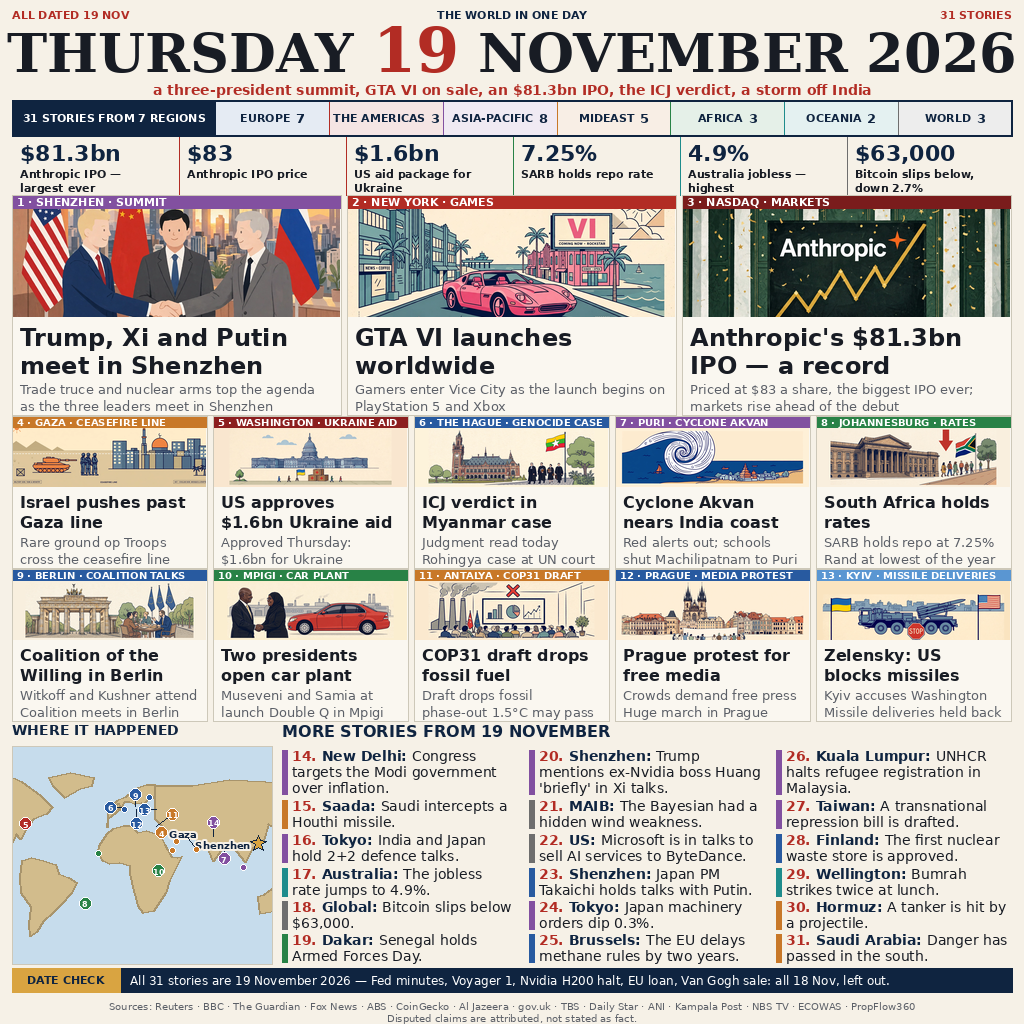
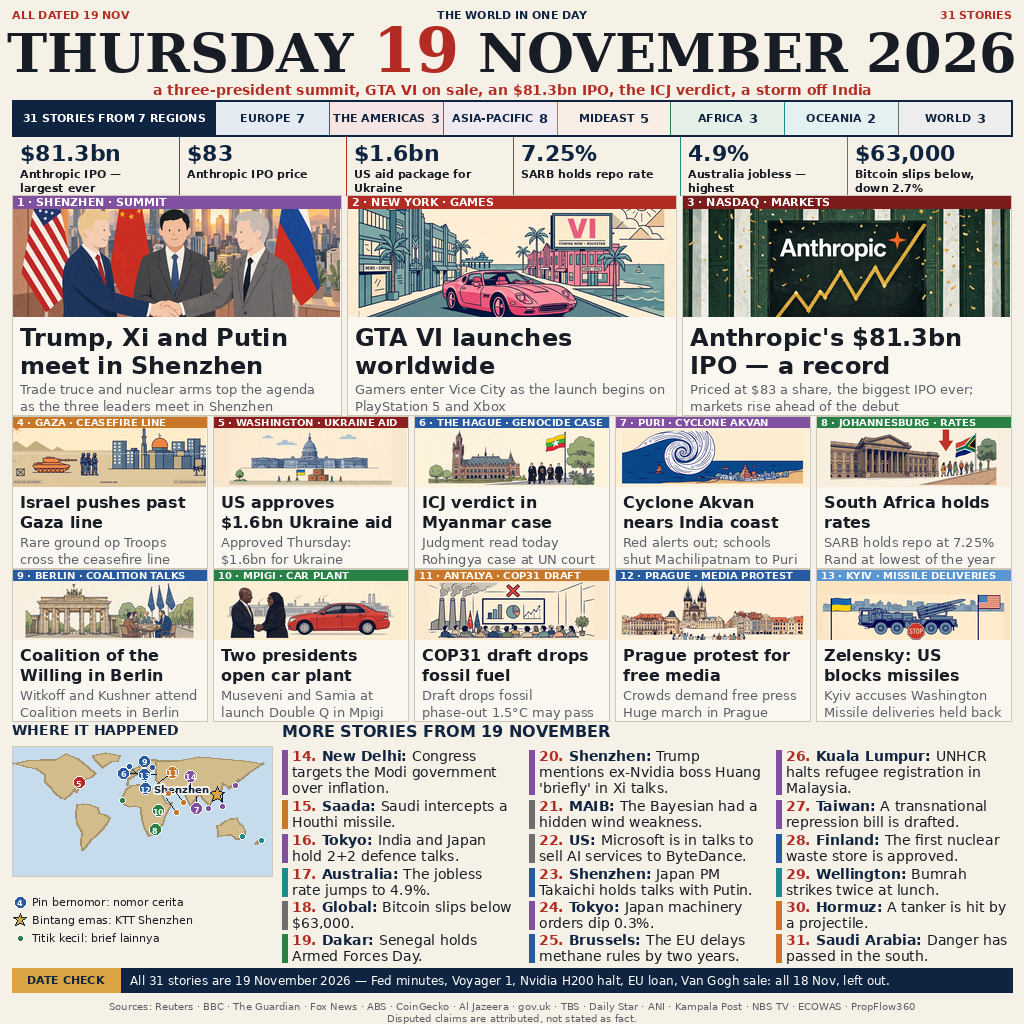
v7 fix: map natural-aspect strip + legend, Johannesburg lon fix
Map no longer has to fill the whole box height (Kevin 06:41 WIB):
full world width, true 2:1 ratio (260x130 strip), box follows the
map, compact 3-line legend fills the leftover space. All 11 dots
back (Tokyo/Australia/Wellington lost in v6 crop); 0 skipped.
Gaza label dropped (collides with Shenzhen label + Saada dot on
every side at this scale); Shenzhen label nudged 7px up to clear
New Delhi pin and Saudi dot. Data fix: Johannesburg lon was -28.0
(wrong hemisphere, pin in the Atlantic) -> +28.0E; pin now on land
in South Africa.

Changed region(s): [[0.0, 0.7188, 0.2812, 0.9688]]

diff --git a/compose_v2.py b/compose_v2.py
@@ -114,6 +114,17 @@
 #    subjects stay whole with margins; no new in-picture text.
 #  - Titles, texts, numbers, layout, house style unchanged.
 #
+# v7 changes (20 Nov ~06:41 WIB, Kevin: "Maksudku ga perlu di full
+# vertical"): the map does NOT have to fill the whole box height.
+# It is now a NATURAL-ASPECT STRIP: full world width (no left/right
+# crop — Americas, Europe, Africa, Asia, Australia all in), no
+# stretch, no ocean gap inside the map; height follows the true
+# ratio (260 px wide -> 130 px tall). The map box follows the map
+# height; the space left in the left column holds a compact 3-line
+# legend (numbered pin / gold star / small dot), centred. Pin/dot
+# offsets retuned for the smaller scale so all 11 dots return
+# (Tokyo, Australia, Wellington were lost in the v6 cover-fit crop).
+#
 # Run:  python3 compose_v2.py   (needs Pillow; writes entry.png here)
 # The entrypoint main.py only copies entry.png — it never re-renders.
 
@@ -360,7 +371,9 @@ PLACES = {
     "Kuala Lumpur": (101.7, 3.1),
     "Beijing": (116.4, 39.9),
     "Brussels": (4.4, 50.8),
-    "Johannesburg": (-28.0, -26.2),
+    "Johannesburg": (28.0, -26.2),  # v7 fix: was (-28.0, -26.2) — wrong
+    # hemisphere; the pin sat in the South Atlantic instead of South
+    # Africa. Johannesburg is 28.0E, 26.2S.
     "Mpigi": (32.3, 0.2),
     "Antalya": (30.7, 36.9),
     "Dakar": (-17.4, 14.7),
@@ -385,13 +398,28 @@ PIN_OFFSETS = {
     "Puri": (0, 12),
     "New Delhi": (0, -14),
 }
-# Dot offsets (same leader-line mechanism as pins). v5: the Hormuz
-# dot sat on top of the "Gaza" label, so it moves down-right.
+# Dot offsets (same leader-line mechanism as pins). v7 (natural-aspect
+# strip, smaller scale): Saada moved right so it clears the Mpigi pin,
+# Taiwan moved down so it clears the Tokyo dot, Brussels moved up-left
+# so it clears the Kyiv pin. v5: the Hormuz dot sat on top of the
+# "Gaza" label, so it moves down-right.
 DOT_OFFSETS = {
     "Hormuz": (8, 11),
+    "Saada": (10, 14),
+    "Taiwan": (0, 14),
+    "Brussels": (-8, -8),
 }
 # Which pins get a name label, and on which side (l/r/a/b).
-PIN_LABELS = {"Gaza": "r", "Wellington": "l", "Tokyo": "a", "Shenzhen": "l"}  # v6: star near right edge, label below would run off-box
+# v7: "Gaza" dropped — at this scale its label collides with the
+# Shenzhen label AND the Saada dot/leader no matter the side
+# (checked all four); pin 4 is still identified by card 4's strip
+# and the legend. "Wellington"/"Tokyo" are dots, so their entries
+# here are inert.
+PIN_LABELS = {"Wellington": "l", "Tokyo": "a", "Shenzhen": "l"}  # v6: star near right edge, label below would run off-box
+# Extra vertical nudge (px) for a label, on top of its side offset.
+# v7: Shenzhen -7 so the text clears the New Delhi pin above and the
+# Saudi Arabia dot below (both sub-1px clearances, verified visually).
+PIN_LABEL_DY = {"Shenzhen": -7}
 
 # Strip colour choices per region (first pick is the region colour;
 # the rest are nearby shades so neighbours can always differ).
@@ -512,28 +540,24 @@ def assign_strips(grid):
     return colours
 
 # ---- map ----
-# Map cover-fit (v6, Kevin 20 Nov 06:31 WIB: "lebih baik di crop aja,
-# jangan di buat laut gitu"). One undistorted scale, big enough that the
-# world (lon -180..180, lat 90..-90) covers the whole 260x218 box, so
-# the overflowing edges are CROPPED, not left as ocean gaps. The scale
-# is set by the pins: Washington (-77) .. Shenzhen (114.1) must all stay
-# visible, so s = 1.22 (visible lon -86..123); centre lon 18.55, centre
-# lat 13.15 (pins Berlin 52.5 .. Johannesburg -26.2). The thin sea bands
-# top/bottom are the Arctic + Southern Ocean of the map itself, not an
-# empty margin: land spans ~76% of the box height. A strict cover-fit
-# (s = 218/130 = 1.68) would show only 155 deg of longitude and cut the
-# Washington / Shenzhen pins, so the zoom is eased just enough to keep
-# every pin (task instruction: "sesuaikan zoom ... supaya semua pin
-# tetap terlihat").
-MAP_S = 1.22
-MAP_CLON = 18.55
-MAP_CLAT = 13.15
+# Map NATURAL-ASPECT STRIP (v7, Kevin 20 Nov 06:41 WIB: "Maksudku ga
+# perlu di full vertikal"). The map does NOT have to fill the whole
+# box height: full world width (lon -180..180, no left/right crop),
+# one undistorted scale, height follows the true ratio — 260 px wide
+# -> 130 px tall (2:1). Centre lon 10 so Wellington (174.8) still
+# fits inside the right edge with its pin; centre lat 0. The map box
+# follows the map height (see build()); the leftover space in the
+# left column holds a compact legend, not ocean.
+MAP_S = 260 / 360.0
+MAP_CLON = 10.0
+MAP_CLAT = 0.0
+MAP_H = 130
 
 
 def project(lon, lat, mw, mh):
-    """Equirectangular, UNDISTORTED, COVER-FIT (v6). One scale for both
-    axes; the world is centred on (MAP_CLON, MAP_CLAT) and cropped to
-    the box. lon -180..180 across, lat 90..-90 down."""
+    """Equirectangular, UNDISTORTED, NATURAL-ASPECT STRIP (v7). One
+    scale for both axes; the whole world (lon -180..180, lat 90..-90)
+    spans the box width, height follows the true 2:1 ratio."""
     x = mw / 2.0 + (lon - MAP_CLON) * MAP_S
     y = mh / 2.0 + (MAP_CLAT - lat) * MAP_S
     return (x, y)
@@ -577,11 +601,13 @@ def build_markers():
 
 
 def draw_map(mw, mh):
-    """The world map at its TRUE aspect ratio, COVER-FIT (v6: never
-    stretched — Kevin 20 Nov 06:07 WIB; never ocean gaps — Kevin 20 Nov
-    06:31 WIB). One scale for both axes, the world cropped to the box.
-    Pins r 6 with 8pt numbers, dots r 3 kept 9px apart; dots whose
-    centre falls outside the box are skipped (logged, same as collisions).
+    """The world map at its TRUE aspect ratio, NATURAL-ASPECT STRIP
+    (v7: never stretched — Kevin 20 Nov 06:07 WIB; never ocean gaps
+    — Kevin 20 Nov 06:31 WIB; never full-vertical — Kevin 20 Nov
+    06:41 WIB). One scale for both axes; the whole world spans the
+    box width, height follows the true 2:1 ratio. Pins r 6 with 8pt
+    numbers, dots r 3 kept 9px apart; dots whose centre falls outside
+    the box are skipped (logged, same as collisions).
     Returns (image, log)."""
     pins, dots = build_markers()
     im = Image.new("RGB", (mw, mh), SEA)
@@ -612,15 +638,16 @@ def draw_map(mw, mh):
             placed.append((qx, qy, 6))
         if city in PIN_LABELS:
             side = PIN_LABELS[city]
+            dy = PIN_LABEL_DY.get(city, 0)
             tw = d.textlength(city, font=f_label)
             if side == "r":
-                tx, ty = qx + 8, qy - 5
+                tx, ty = qx + 8, qy - 5 + dy
             elif side == "l":
-                tx, ty = qx - 8 - tw, qy - 5
+                tx, ty = qx - 8 - tw, qy - 5 + dy
             elif side == "a":
-                tx, ty = qx - tw / 2, qy - 16
+                tx, ty = qx - tw / 2, qy - 16 + dy
             else:
-                tx, ty = qx - tw / 2, qy + 9
+                tx, ty = qx - tw / 2, qy + 9 + dy
             d.text((tx, ty), city, font=f_label, fill=NAVY,
                    stroke_width=2, stroke_fill=PAPER)
     for i, (x1, y1, _r1) in enumerate(placed):
@@ -649,6 +676,35 @@ def draw_map(mw, mh):
     log = {"pins": [m for _c, m, _r in pins],
            "dots": placed_dots, "skipped_dots": skipped}
     return im, log
+
+
+def draw_map_legend(d, x, y_top, w, y_bottom):
+    """Compact 3-line legend under the map strip (v7), centred in the
+    leftover space of the left column. Explains the three marker
+    kinds; plain on the paper background, no box."""
+    f_txt = load(SANS, 11)
+    f_num = load(SANS_B, 8)
+    rows = [
+        ("pin", "Pin bernomor: nomor cerita"),
+        ("star", "Bintang emas: KTT Shenzhen"),
+        ("dot", "Titik kecil: brief lainnya"),
+    ]
+    lh = 18
+    y = y_top + (y_bottom - y_top - len(rows) * lh) // 2
+    for kind, text in rows:
+        cy = y + lh // 2
+        if kind == "pin":
+            d.ellipse([x + 2, cy - 6, x + 14, cy + 6],
+                      fill=(40, 90, 160), outline=WHITE, width=1)
+            tw = d.textlength("4", font=f_num)
+            d.text((x + 8 - tw / 2, cy - 4), "4", font=f_num, fill=WHITE)
+        elif kind == "star":
+            d.polygon(star_points(x + 8, cy, 7, 3), fill=GOLD, outline=NAVY)
+        else:
+            d.ellipse([x + 5, cy - 3, x + 11, cy + 3],
+                      fill=(40, 130, 70), outline=WHITE, width=1)
+        d.text((x + 20, y + 2), text, font=f_txt, fill=INK)
+        y += lh
 
 
 # ---- page sections ----
@@ -915,11 +971,11 @@ def build():
     bottom_y = y
     bottom_h = 964 - bottom_y
     map_top = bottom_y + 24
-    map_h = bottom_h - 24
-    map_im, mlog = draw_map(MAP_W, map_h)
+    map_im, mlog = draw_map(MAP_W, MAP_H)
     canvas.paste(map_im, (12, map_top))
-    d.rectangle([12, map_top, 12 + MAP_W, bottom_y + bottom_h],
+    d.rectangle([12, map_top, 12 + MAP_W, map_top + MAP_H],
                 outline=CARD_LINE, width=1)
+    draw_map_legend(d, 12, map_top + MAP_H, MAP_W, bottom_y + bottom_h)
     bx = 12 + MAP_W + 10
     bw = 1012 - bx
     used = draw_briefs(d, bx, bottom_y, bw, bottom_h)

diff --git a/STORIES.md b/STORIES.md
@@ -173,3 +173,25 @@ keep them all. Three far-east dots (Tokyo, Australia, Wellington) fall
 outside the cropped window and are skipped; the rest stay in their
 true geographic places. Titles, texts, numbers and layout are
 unchanged.
+
+v7 (20 Nov 06:41 WIB, Kevin: "Maksudku ga perlu di full vertikal"):
+the map does NOT have to fill the whole box height. It is now a
+natural-aspect strip: the whole world width is visible (no
+left/right crop — the Americas, Europe, Africa, Asia and Australia
+all in), no stretch, no ocean gap inside the map; height follows the
+true ratio (260 px wide -> 130 px tall). The map box follows the map
+height, and the space left in the left column holds a compact 3-line
+legend (numbered pin = story number; gold star = Shenzhen summit;
+small dot = other briefs), centred. All pins (4–13, the Shenzhen
+star, 14) and all 11 dots are back, including Tokyo, Australia and
+Wellington, which the v6 crop had lost; nothing is skipped. The
+"Gaza" label was dropped — at this scale it collides with the
+Shenzhen label and the Saada dot/leader on every side; pin 4 is
+still identified by card 4's strip and the legend. The "Shenzhen"
+label is kept, nudged 7 px up so it clears the New Delhi pin above
+and the Saudi Arabia dot below. Data fix found during visual
+verification: Johannesburg's longitude in PLACES was -28.0 (west) —
+wrong hemisphere; pin 8 sat in the South Atlantic. Johannesburg is
+28.0° East, 26.2° South; fixed to (28.0, -26.2), and the pin now
+falls on land in South Africa. Titles, texts, numbers and layout are
+unchanged.
